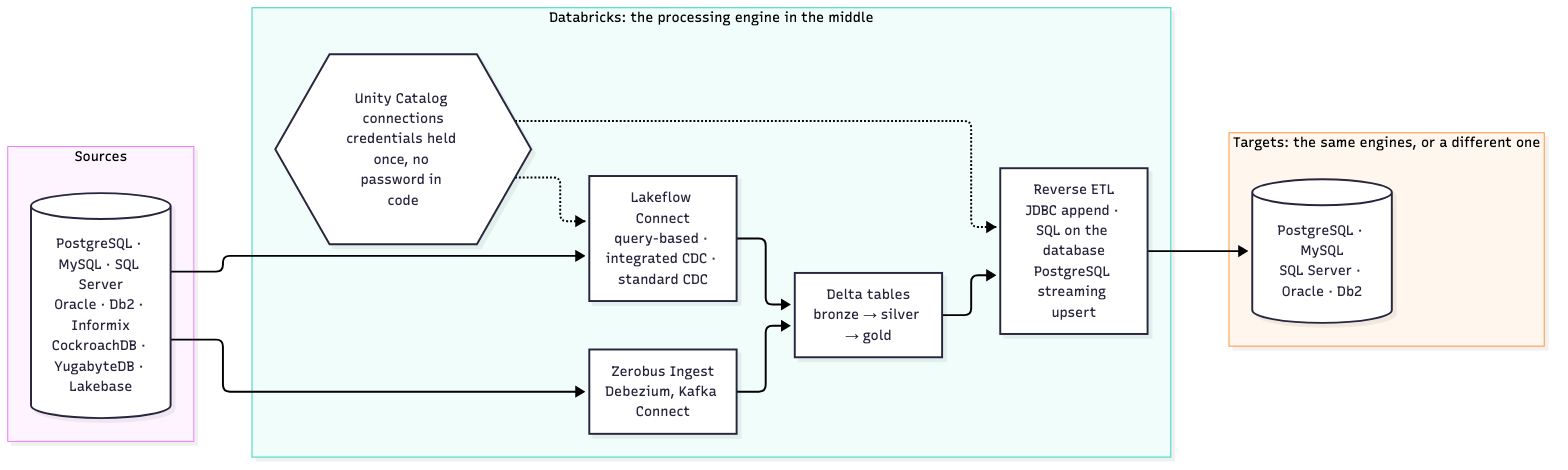
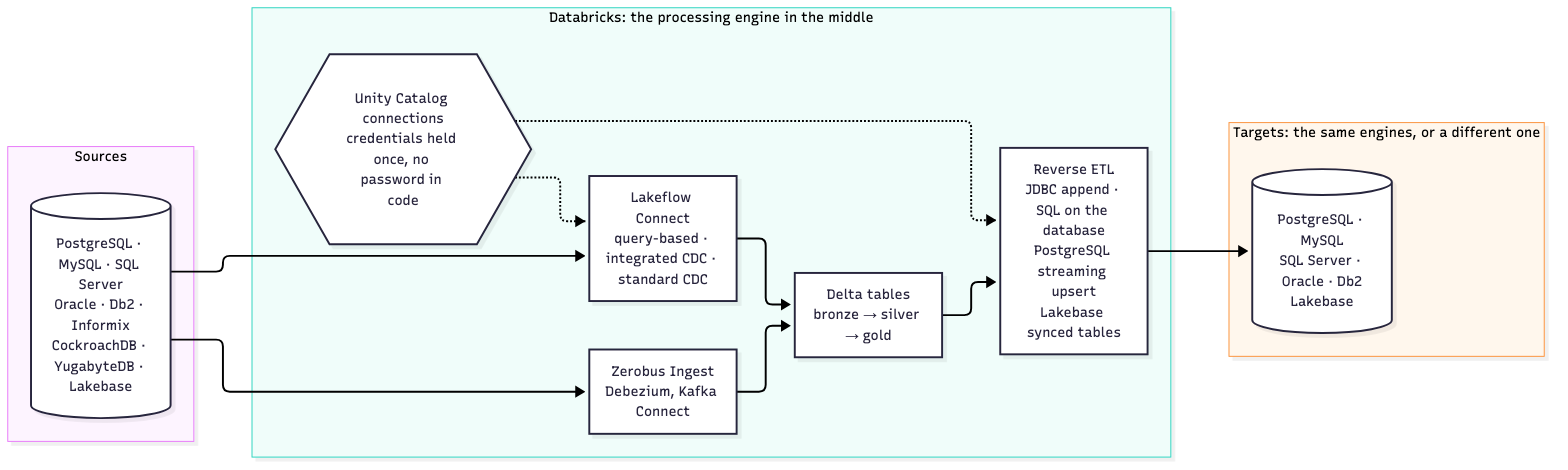
Reverse ETL into Lakebase: the streaming sink and synced tables, tested
docs/reverse-etl.md gets an "Into Lakebase" table: the Lakebase streaming sink
(endpoint, upsertkey, AvailableNow; it created the table with the key as
primary key, and a rerun upserted) and a TRIGGERED synced table from a Delta
table with its change feed on (insert, update and delete arrived). Tested
2026-11-01 on AWS. Lakebase joins the targets in the in-and-out diagram and the
README route line.

Changed region(s): [[0.625, 0.2979, 0.75, 0.7745], [0.7812, 0.3574, 0.9688, 0.7745], [0.7812, 0.2383, 1.0, 0.3277]]

diff --git a/docs/reverse-etl.md b/docs/reverse-etl.md
@@ -1,6 +1,6 @@
 # Reverse ETL: data from Databricks back out to a database, tested end to end
 
-Reverse ETL writes data that Databricks processed into an operational database, the same engine it came from or a different one. Every route here goes through a Unity Catalog connection, so the database's password sits in the connection, never in code.
+Reverse ETL writes data that Databricks processed into an operational database, the same engine it came from or a different one. Every route into an external database goes through a Unity Catalog connection, so the database's password sits in the connection, never in code; the routes into Lakebase use the identity running the job.
 
 ![Data in and out of Databricks](diagrams/in-and-out.png)
 
@@ -15,6 +15,13 @@ Each ✅ ran on Databricks serverless against a real database, with the rows che
 | SQL Server 2022 | ✅ | ✅ | not offered (PostgreSQL only) | not run | not run |
 | Oracle 23 Free | not run | ✅ | not offered (PostgreSQL only) | not run | not run |
 | Db2 11.5.9 | not run | ✅ | not offered (PostgreSQL only) | not run | not run |
+
+**Into Lakebase**, with no connection: the Lakebase streaming sink and Lakebase synced tables use the identity running the job.
+
+| Route | Tested |
+|---|---|
+| Lakebase streaming sink, `writeStream.format("postgresql")` with `endpoint`, `upsertkey` and `AvailableNow` | ✅ by hand: the sink created the table with the key as primary key; a second run on the same checkpoint updated a corrected key in place and added a new one, no duplicates |
+| [Lakebase synced table](https://docs.databricks.com/aws/en/oltp/projects/sync-tables), `TRIGGERED`, from a Delta table with its change feed on | ✅ by hand: the first sync, then an insert, an update and a delete in Delta all arrived after a triggered sync |
 
 ## The routes
 
@@ -31,5 +38,4 @@ Each ✅ ran on Databricks serverless against a real database, with the rows che
 ## Not tested yet
 
 - Append on Oracle and Db2.
-- Reverse ETL into Lakebase (Lakebase synced tables).
 - Verifying the server certificate on SQL Server, Oracle and Db2.

diff --git a/README.md b/README.md
@@ -16,7 +16,7 @@ The skills ask before creating anything, and clean up after themselves. To run t
 |---|---|
 | [Lakeflow Connect, by database](docs/lakeflow-connect-database.md) | Query-based, integrated CDC and standard CDC on PostgreSQL, MySQL, SQL Server, Oracle and Lakebase; schema changes and table lifecycle |
 | [Lakeflow Connect Zerobus](docs/lakeflow-connect-zerobus.md) | Database changes through Zerobus Ingest into bronze, silver and gold, on eight engines, six of them with all six TPC models |
-| [Reverse ETL](docs/reverse-etl.md) | Append, SQL on the database, and upserts back out to PostgreSQL, MySQL, SQL Server, Oracle and Db2 |
+| [Reverse ETL](docs/reverse-etl.md) | Append, SQL on the database, and upserts back out to PostgreSQL, MySQL, SQL Server, Oracle and Db2; into Lakebase with its streaming sink and synced tables |
 
 ## How a prompt becomes a tested result
 
